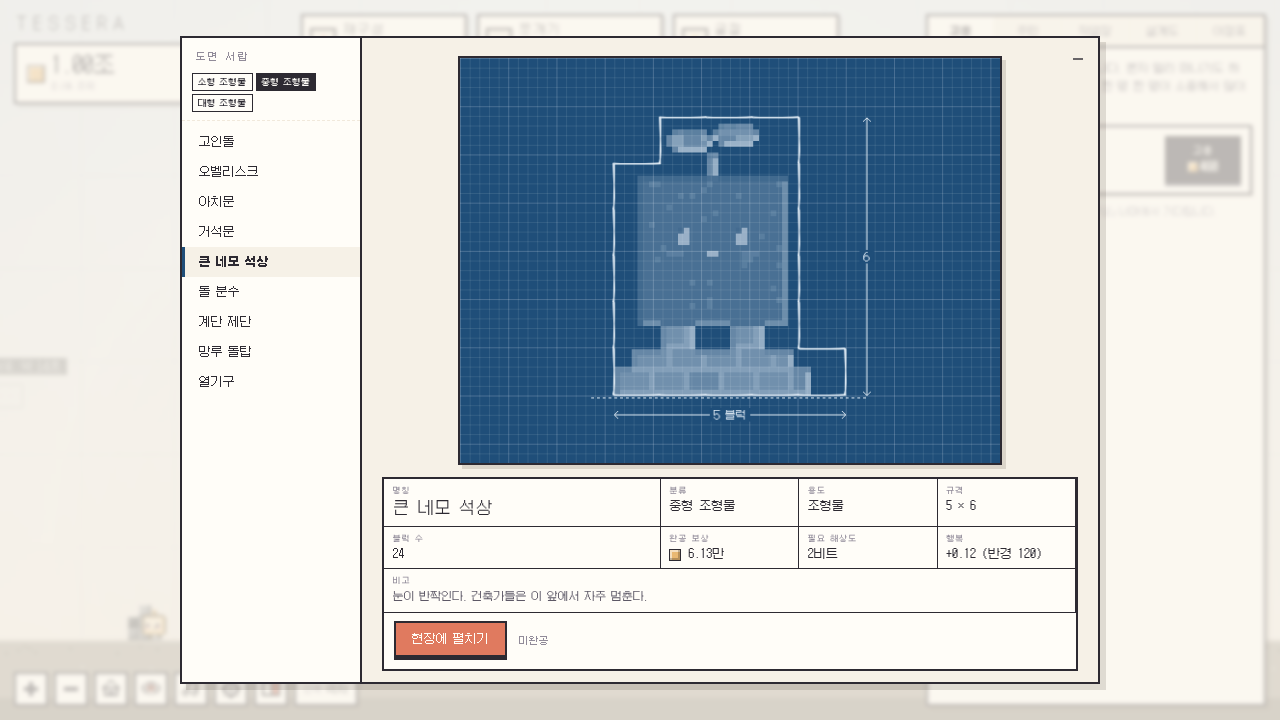
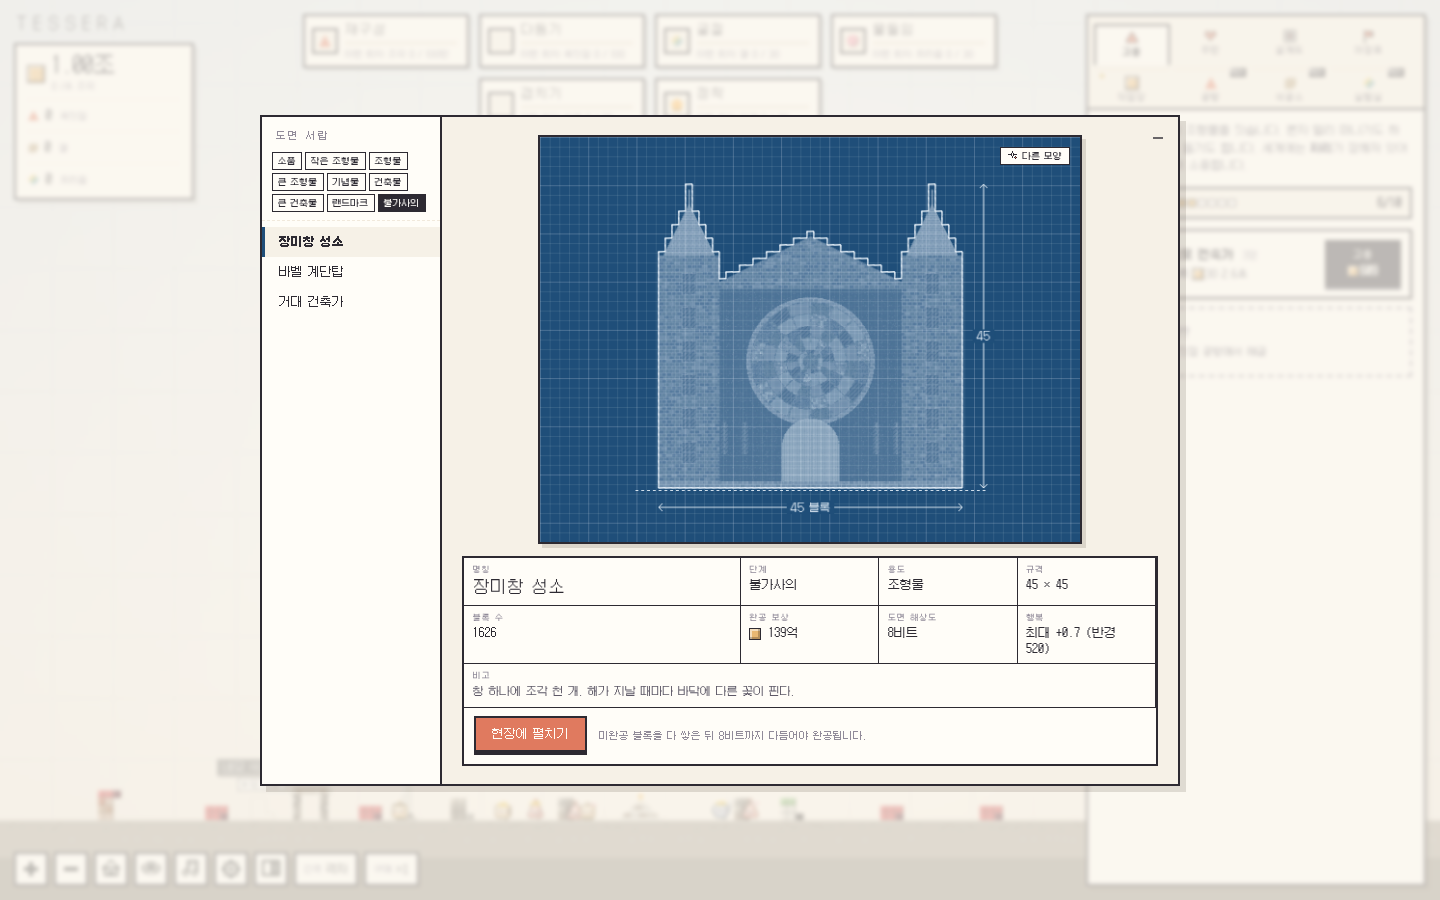
v4 P8: master spec v4, README, screenshots, blueprint sheet scaling for wonders, cell click priority, guide card under modals
Claude-Session: https://claude.ai/code/session_01N4KP5tCXqoHNgnAGJrMBmJ

diff --git a/js/main.js b/js/main.js
@@ -148,7 +148,10 @@
     if (e.button === 2 || e.button === 1) { rdown = { sx: e.clientX, sy: e.clientY, lx: e.clientX, ly: e.clientY, moved: false, wx, button: e.button }; return; }
     if (T.st.placing) { down = { placing: true }; return; }
     if (T.vil.zoneTool && wy < 40) { T.vil.zoneDrag = [wx, wx]; down = { zone: true }; return; }
-    down = { sx: e.clientX, sy: e.clientY, moved: false, ent: T.ent.pick(wx, wy), held: false };
+    // an empty cell under the cursor wins over a builder standing in front of it (the highlight shows it)
+    const ast = T.st.at(wx, wy, T.view(), true);
+    const onCell = ast && !ast.clearing && M.cellAt(ast, wx, wy) >= 0;
+    down = { sx: e.clientX, sy: e.clientY, moved: false, ent: onCell ? null : T.ent.pick(wx, wy), held: false };
   });
   cv.addEventListener('pointermove', (e) => {
     if (ptrs.has(e.pointerId)) ptrs.set(e.pointerId, [e.clientX, e.clientY]);
@@ -165,7 +168,8 @@
     }
     if (down && down.zone) { T.vil.zoneDrag[1] = wx; return; }
     if (!down || down.placing) {
-      const h = T.ent.pick(wx, wy);
+      const hst = T.st.at(wx, wy, T.view(), true);
+      const h = hst && !hst.clearing && M.cellAt(hst, wx, wy) >= 0 ? null : T.ent.pick(wx, wy);
       T.ent.hover = h;
       const st = !h && T.st.hit(wx, wy, T.view());
       cv.style.cursor = T.st.placing ? 'copy' : T.vil.zoneTool ? 'ew-resize' : h ? 'grab' : st ? (T.st.done(st) ? 'help' : 'cell') : 'crosshair';

diff --git a/js/structures.js b/js/structures.js
@@ -613,7 +613,9 @@
     for (let y = 0; y < H; y += 10) { ctx.fillStyle = y % 50 === 0 ? (color ? 'rgba(232,241,250,0.22)' : 'rgba(0,0,0,0.11)') : color ? 'rgba(232,241,250,0.1)' : 'rgba(0,0,0,0.05)'; ctx.fillRect(0, y, W, 1); }
     const margin = 52;
     const rows = sh.h + sh.sink;
-    const cs = Math.max(2, Math.floor(Math.min((W - margin * 2) / sh.w, (H - margin * 2) / rows) / 8) * 8) || Math.min((W - margin * 2) / sh.w, (H - margin * 2) / rows);
+    // whole multiples of 8 when there is room (crisp sub-pixels), otherwise as large as fits (big wonders)
+    const fit = Math.min((W - margin * 2) / sh.w, (H - margin * 2) / rows);
+    const cs = fit >= 8 ? Math.floor(fit / 8) * 8 : Math.max(1, Math.floor(fit));
     const ox = Math.round((W - cs * sh.w) / 2), groundY = Math.round((H - cs * rows) / 2) + cs * sh.h - 4;
     if (locked) ctx.globalAlpha = 0.35;
     // the actual pixel art, in ink colour, at the best resolution available

diff --git a/css/style.css b/css/style.css
@@ -886,3 +886,6 @@ body:not(.color) .acc-split { background: #8d8d8a; } body:not(.color) .acc-paint
 
 .seal.bounce { animation: sealBounce .5s steps(5); }
 @keyframes sealBounce { 30% { transform: translateY(-5px); } 60% { transform: translateY(1px); } }
+/* guide cards stay under modals (the modal backdrop covers them) */
+.tut { z-index: 45; }
+#ghl { z-index: 44; }

diff --git a/README.md b/README.md
@@ -23,32 +23,44 @@
 <p align="center"><img src="docs/og.png" alt="작은 건축가들이 지은 마을" width="860"></p>
 
 흰 하늘과 회색 땅뿐인 고요한 2D 격자 세계입니다. 화폐 **조각**으로 작고 귀여운 네모 **건축가**를 고용하면, 건축가들은 블록을 하나씩 던져 올려 조형물을 짓습니다. 혼자 멀리 떠나 짓기도 하고, 친구와 함께 짓기도 합니다.
-처음 지은 건축물은 투박한 블록 덩어리입니다. **쪼개기**로 블록을 1비트에서 8비트까지 잘게 나누면 건축물의 진짜 모습이 드러나고, **굴절**로 세상에 색이 생기면 **방울**이 쪼개진 칸을 하나하나 칠합니다. **겹치기**로 세상 뒤에 세상이 겹치고, **정착**하면 집을 짓고 잠을 자고 아기가 태어나는 마을이 시작됩니다.
+처음 지은 건축물은 투박한 블록 덩어리입니다. **다듬기**로 블록을 1비트에서 8비트까지 곱게 다듬으면 건축물의 진짜 모습이 드러나고, **굴절**로 세상에 색이 생기면 **방울**이 다듬어진 칸을 하나하나 칠합니다. **겹치기**로 세상 뒤에 세상이 겹치고, **정착**하면 집을 짓고 잠을 자고 아기가 태어나는 마을이 시작됩니다.
 
 ## 스크린샷
 
-| 처음, 고요한 회색 세계 | 설계도 드래프팅 테이블 |
+| 처음, 고요한 회색 세계 | 불가사의 「장미창 성소」 도면 |
 |---|---|
 | ![초반](docs/screenshots/early.png) | ![설계도](docs/screenshots/blueprint.png) |
-| **쪼개기 전(왼쪽)과 8비트로 쪼갠 뒤(오른쪽)** | **레이어 세 겹의 중세 성읍** |
-| ![쪼개기](docs/screenshots/split.png) | ![마을](docs/screenshots/village.png) |
+| **다듬기 전(왼쪽)과 8비트로 다듬은 뒤(오른쪽)** | **세 겹의 중세 성읍** |
+| ![다듬기](docs/screenshots/split.png) | ![마을](docs/screenshots/village.png) |
 | **오로라가 뜬 밤** | **부탁 메뉴** |
 | ![밤](docs/screenshots/night.png) | ![부탁 메뉴](docs/screenshots/radial.png) |
+| **달이 해를 가린 일식** | **이정표 보상 카드** |
+| ![일식](docs/screenshots/eclipse.png) | ![이정표](docs/screenshots/milestone.png) |
 
 ## 특징
 
-- **귀여운 건축가들**: 쓰다듬으면 하트를 뿜고, 들어 올리면 버둥거리고, 짓고 있는 곳 근처에 내려놓으면 거듭니다. 한 명 한 명이 소중해서 첫 재구성 전까지는 대여섯 명 정도만 함께합니다.
-- **실제 비율의 픽셀 건축물 50여 종**: 재질별 색조 이동 램프, 질감, 자동 외곽선과 명암으로 그린 절차적 픽셀 아트. 풀은 작고, 집은 건축가 몇 배, 성은 화면을 가득 채웁니다. 하늘에 띄우는 건축물도 있습니다.
-- **쪼개기와 해상도**: 끌 주민이 완공된 블록을 결대로 쪼갭니다. 해상도는 1비트(1×1)부터 8비트(8×8)까지. 손이 빨라지면 한 칸을 한 번에 쪼갭니다.
-- **함께 짓기**: 짓고 있는 건축물을 클릭하면 플레이어도 블록을 보탤 수 있습니다.
-- **이정표 22개**: 어떤 리셋에도 지워지지 않는 별도 레이어. 업그레이드, 리셋 레이어, 편의 기능(연출 생략, 일괄 레벨업, 예상 소요시간)을 차례로 엽니다.
-- **여섯 겹의 리셋 레이어**: 재구성(꼭짓점), 쪼개기(결), 굴절(프리즘, 색의 탄생), 물들임(안료, 방울), 겹치기(겹, 깊이 레이어와 워프 주민), 정착(등불, 마을).
-- **업그레이드 한계**: 처음에는 최대 레벨이 낮고, 상위 레이어의 「한계」 업그레이드로 늘어납니다.
-- **마을의 삶**: 집과 잠, 모든 주민의 수명, 이별과 작은 무덤, 행복 범위, 방문, 구역, 아기와 일꾼. 밖에서 자면 수명이 빨리 줄고, 밤에 부탁을 하면 자던 주민이 화들짝 깨서 달려옵니다.
-- **하늘**: 날짜와 시간, 해와 위상이 바뀌는 달, 반짝이는 별과 별똥별. 아주 가끔 **오로라**나 **일식**이 찾아오면 피버 타임.
-- **연대기**: 움집 마을, 돌담 마을, 장원, 중세 성읍. 여러 조건을 동시에 채워야 넘어갑니다.
-- **물자와 자동화**: 고용, 레벨업, 업그레이드 자동화와 업그레이드 유지, 꼭짓점과 결과 프리즘 자동 채굴. 리셋 자체는 자동으로 일어나지 않습니다.
-- **밸런스**: 클릭 가치는 건축가 수입 대비 소프트캡, 비용은 단계마다 성장률이 커지는 구조.
+- **귀여운 건축가들**: 쓰다듬으면 하트를 뿜고, 들어 올리면 버둥거리고, 짓고 있는 곳 근처에 내려놓으면 거듭니다. 세계에는 **자리**가 정해져 있어서 한 명 한 명이 소중합니다.
+- **9단계 픽셀 건축물 70종**: 재질별 색조 이동 램프, 질감, 자동 외곽선과 명암으로 그린 절차적 픽셀 아트.
+  - 단계는 크기로 정해서 소품부터 **불가사의**(장미창 성소, 바벨 계단탑, 거대 건축가)까지 단계마다 확실히 커집니다.
+- **다듬기와 도면 해상도**: 톡톡 주민이 블록을 결대로 다듬습니다. 1비트(1×1)부터 8비트(8×8)까지 있고, 도면 해상도까지 다듬어야 완공됩니다.
+  - 다듬고 칠할수록 **완성도**가 올라 주민이 더 행복해집니다.
+- **함께 짓기**: 짓고 있는 건축물의 빈칸을 클릭하면 그 칸을 직접 채웁니다.
+- **이정표 22개**: 어떤 리셋에도 지워지지 않는 별도 레이어입니다. 세우면 보상 카드가 한 장씩 펼쳐집니다.
+- **여섯 겹의 리셋 레이어**: 리셋마다 고유한 연출이 있습니다.
+  - 재구성(꼭짓점)
+  - 다듬기(결)
+  - 굴절(프리즘, 색의 탄생)
+  - 물들임(안료, 방울)
+  - 겹치기(안개, 겹과 폴짝 주민)
+  - 정착(등불, 마을)
+- **겹 이동**: 세상 뒤의 겹을 Q / E로 오가며 짓습니다.
+- **마을의 삶**: 집과 잠, 수명, 이별과 작은 무덤, 행복 범위, 방문, 구역(바꾸면 알아서 다시 지음), 아기와 일꾼, 「모여」 다음 「흩어져」의 밤샘.
+- **하늘**: 날짜와 시간, 위상이 바뀌는 달, 별과 별똥별. 가끔 **오로라**가 뜨거나 달이 해를 가리는 **일식**이 찾아옵니다.
+- **연대기**: 움집 마을, 돌담 마을, 장원, 중세 성읍. 넘어갈 때 연대기 책장이 넘어갑니다.
+- **소리**: Kenney와 uisfx의 CC0 효과음 54개를 게임 톤에 맞게 골라 다듬었습니다. 블록은 높이에 따라 5음계로 노래합니다.
+- **밸런스**: 같은 상점의 배율은 더하기형, 보유 보너스는 로그, 리셋 획득은 점점 가팔라지는 곡선입니다.
+  - 상한 계산기(`tools/balance.js`)가 실제 공식으로 폭주를 검사하고, CI에서 실패를 막습니다.
+- **편의**: 안내서, 고유 픽셀 툴팁과 스크롤바, 구매 수량(×1~최대), 일괄 레벨업 목표 칩, 개발자 모드(코드 `DEV`).
 
 ## 조작
 
@@ -56,7 +68,7 @@
 |---|---|
 | 좌클릭 | 블록 설치 (쿨타임, 쿨타임 중 클릭은 예약됨) |
 | 좌클릭 끌기 | 블록 칠하기 |
-| 짓고 있는 건축물 클릭 | 함께 짓기 |
+| 짓고 있는 건축물의 빈칸 클릭 | 그 칸 채우기 |
 | 완공된 건축물 클릭 | 상세 정보와 행복 범위 |
 | 간격 버튼 위에서 휠, `[` `]` | 블록 간격 (자유, 격자, 2칸 이상) |
 | 우클릭 끌기 | 맵 이동 |
@@ -64,6 +76,8 @@
 | 휠, 핀치, `+` `−` | 확대 / 축소 |
 | 주민 클릭 / 끌기 | 쓰다듬기와 정보 카드 / 들어 올리기 |
 | 구매 버튼 꾹 누르기 | 점점 빨라지는 연속 구매 |
+| 구매 버튼(dock) 클릭, 휠 | 구매 수량 ×1, ×5, ×10, ×25, 최대 |
+| `Q` `E`, `PageUp` `PageDown` | 겹 이동 |
 | `H` | 관측 모드 |
 | `Esc` | 취소, 창 닫기 |
 
@@ -85,9 +99,10 @@ python3 -m http.server 8000
 | URL | 내용 |
 |---|---|
 | `?demo=wild` | 정착 전, 블록 그대로의 조형물 |
-| `?demo=wild&res=3&color&paint` | 8비트로 쪼개고 칠한 조형물 |
+| `?demo=wild&res=3&color&paint&ms=16` | 8비트로 다듬고 칠한 조형물, 불가사의 도면 |
 | `?demo=village&era=3&paint` | 방울이 칠한 장원 시대 마을 |
-| `?demo=village&era=4&paint&layers=3` | 레이어 세 겹의 중세 성읍 |
+| `?demo=village&era=4&paint&layers=3` | 세 겹의 중세 성읍 (Q / E로 겹 이동) |
+| 아무 URL에 `&dev` | 개발자 탭 (화폐, 진행, 시간 배속, 연출 재생, 사운드 보드) |
 | `?demo=village&era=4&clock=160` | 밤의 중세 성읍 |
 
 예: <https://rednebula100.github.io/TESSERA/?demo=village&era=4&paint&layers=3>
@@ -98,19 +113,18 @@ python3 -m http.server 8000
 |---|---|
 | 제목 | **TESSERA** (부제: 작은 건축가들) |
 | 기본 화폐 | 조각 |
-| 리셋 레이어 | 1 재구성(꼭짓점), 2 쪼개기(결), 3 굴절(프리즘), 4 물들임(안료), 5 겹치기(겹), 6 정착(등불) |
+| 리셋 레이어 | 1 재구성(꼭짓점), 2 다듬기(결), 3 굴절(프리즘), 4 물들임(안료), 5 겹치기(안개), 6 정착(등불) |
 | 별도 레이어 | 이정표 (어떤 리셋에도 남음), 연대기 (정착 후) |
-| 주민 | 건축가, 일꾼, 아기, 끌, 방울, 망치, 워프 |
+| 주민 | 건축가, 일꾼, 아기, 톡톡(다듬기), 방울(채색), 쿵쿵(철거), 폴짝(겹 건너기) |
 | 해상도 | 1비트, 2비트, 4비트, 8비트 (물들임 이후 최대) |
 | 폰트 | Galmuri |
 
-전체 설계는 [`SPEC.md`](SPEC.md)에 있습니다.
+전체 설계는 [`SPEC.md`](SPEC.md)에, v4 계획과 근원 분석은 [`docs/PLAN-v4.md`](docs/PLAN-v4.md)에 있습니다.
 
 ## 로드맵 / 남은 결정
 
-- [ ] **밸런스 플레이테스트**: 각 리셋 레이어 도달 시간 측정 후 `js/data.js` 수치 조정
+- [ ] **밸런스 플레이테스트**: 상한 계산기의 이상 플레이 모델은 통과했지만, 실제 플레이로 후반 체감을 확인
 - [ ] 연대기 확장: 성곽 도시, 근대, 미래 시대
-- [ ] 레이어별 구역 칠하기와 레이어 시점 전환
 - [ ] 칠각, 팔각 등 다각형 계열 건축가
 - [ ] 모바일 레이아웃 다듬기 (현재는 기본 대응만)
 - [ ] 영어 번역
@@ -120,25 +134,32 @@ python3 -m http.server 8000
 ```
 index.html          진입점
 css/style.css       UI (색 이전은 무채색, body.color 이후 파스텔)
+audio/              효과음 54개 (CC0) + CREDITS.md
 js/
-  util.js           숫자 포맷(만, 억, 조), RNG, 이징
-  data.js           건축가, 업그레이드, 이정표, 구역 데이터 ← 밸런스 조정은 여기
+  util.js           숫자 포맷(만, 억, 조), RNG, 이징, 리셋 곡선(taper)
+  data.js           건축가, 업그레이드, 이정표, 구역, 안내서 데이터 ← 밸런스 조정은 여기
   patterns.js       기하학 무늬 (비밀 코드)
   pixelart.js       재질 기반 픽셀 아트 엔진 (램프, 질감, 외곽선, 해상도별 색)
-  catalog.js        건축물 도감 (원시 조형물부터 중세 성까지, 하늘 건축물)
-  structures.js     건축물 배치, 진행, 완공, 쪼개기, 채색, 철거, 도면 시트
-  village.js        부지와 구역, 레이어, 낮과 밤, 하늘 이벤트, 행복, 수명, 가족
+  catalog.js        건축물 도감과 9단계 등급 (원시 조형물부터 불가사의, 중세 성까지)
   icons.js          픽셀 아이콘
-  world.js          카메라, 깊이 레이어, 청크 캐시, 하늘(해, 달, 별), 바닥
+  uikit.js          고유 툴팁, 픽셀 스크롤바
+  world.js          카메라, 겹, 청크 캐시, 하늘(해, 달, 별, 일식), 바닥
   sprites.js        절차적 픽셀 스프라이트
-  entities.js       건축가, 일꾼, 아기, 끌, 방울, 망치, 워프
-  game.js           상태, 경제, 리셋, 저장
-  fx.js             파티클, 완공, 리셋, 색의 탄생, 정착, 시대 전환, 크레딧 연출
-  audio.js          블록 음계 + 효과음
-  ui.js             HUD, 패널, 모달
-  main.js           루프, 입력
+  audio.js          효과음 엔진 (버스, 덕킹, 음계)
+  game.js           상태, 경제, 자리, 리셋, 저장(v3 자동 이전)
+  structures.js     건축물 배치, 골조와 완공, 다듬기, 채색, 철거, 도면 시트
+  village.js        부지와 구역, 낮과 밤, 하늘 이벤트, 행복, 수명, 가족
+  entities.js       건축가, 일꾼, 아기, 톡톡, 방울, 쿵쿵, 폴짝
+  fx.js             파티클, UI 파티클, 완공, 포털, 색의 탄생, 첫 정착, 크레딧
+  fxseq.js          리셋 6종, 시대 전환, 이정표 연출
+  ui.js             HUD, 탭, 패널, 모달, 카드, 안내서
+  dev.js            개발자 모드
+  main.js           루프, 입력, 겹 이동
+tools/
+  balance.js        밸런스 상한 계산기 (CI)
+  check.js          콘텐츠 검사: 단계와 크기, 이정표 보상, 금지어 (CI)
 vendor/             Galmuri 폰트, Rough.js, ZzFX (오프라인 동작)
-docs/               스크린샷, 파비콘, OG 이미지
+docs/               스크린샷, 파비콘, OG 이미지, PLAN-v4.md
 ```
 
 건축물은 종류와 시드, 위치, 진행도만 저장하고 도면은 다시 생성하므로 마을이 커져도 저장 용량이 작습니다.
@@ -150,6 +171,7 @@ docs/               스크린샷, 파비콘, OG 이미지
 - [Galmuri](https://github.com/quiple/galmuri) by Quiple: SIL Open Font License 1.1 ([`vendor/fonts/OFL-Galmuri.md`](vendor/fonts/OFL-Galmuri.md))
 - [Rough.js](https://github.com/rough-stuff/rough) by Preet Shihn: MIT ([`vendor/LICENSE-roughjs`](vendor/LICENSE-roughjs))
 - [ZzFX](https://github.com/KilledByAPixel/ZzFX) by Frank Force: MIT ([`vendor/LICENSE-zzfx`](vendor/LICENSE-zzfx))
+- 효과음: [Kenney](https://kenney.nl), [UI SFX](https://uisfx.com): CC0 1.0 ([`audio/CREDITS.md`](audio/CREDITS.md))
 
 ---
 

diff --git a/SPEC.md b/SPEC.md
@@ -1,4 +1,109 @@
-# TESSERA 마스터 스펙 v3 (쪼개기와 레이어)
+# TESSERA 마스터 스펙 v4 (다듬기, 소리, 연출)
+
+> v4 항목이 v3, v2, v1 본문보다 우선합니다. 계획과 근원 분석은 `docs/PLAN-v4.md`에 있습니다.
+
+## v4.1 용어
+| 이전 | v4 |
+|---|---|
+| 쪼개기(2차 리셋) | **다듬기** |
+| 끌 주민 | **톡톡** |
+| 망치 주민 | **쿵쿵** |
+| 워프 주민 | **폴짝** |
+| 레이어(깊이) | **겹** |
+| 겹(겹치기 화폐) | **안개** |
+| 블럭 | **블록** |
+| 소프트캡 | (폐지) |
+
+- 이정표 보상은 「○○ 해금」처럼 짧게, 종류별 칩(배율, 업그레이드, 기능, 해금, 자리, 설계도)으로 보여줍니다.
+
+## v4.2 건축
+- **도면 해상도**(res): 건축물마다 정해진 해상도입니다. 그보다 곱게는 다듬지 않습니다.
+  - 블록을 다 쌓으면 「골조 완성」, 도면 해상도까지 다듬으면 「완공」입니다. 보상과 도감 기록은 완공 때 들어옵니다.
+  - **섬세한 손길**(아틀리에)을 사면 도면보다 최대 3단계 더 다듬을 수 있습니다.
+- **완성도**: 100% + 다듬기(8비트 기준 최대 +100%) + 색(최대 +100%). 행복 효과는 완성도/300%에 비례합니다.
+- **설계도 일관성**: 썸네일, 도면, 고스트, 실제 건축물이 같은 변형(seed)과 같은 미리보기 해상도를 씁니다. 도면 서랍의 「다른 모양」으로 4가지 변형 중 고릅니다.
+- **함께 짓기**: 짓는 중인 건축물은 빈칸을 클릭해야 그 칸이 채워집니다. 마우스 아래 빈칸이 깜빡이고, 그 칸 앞에 건축가가 서 있어도 칸이 우선입니다.
+- **9단계 등급**: 등급은 크기(긴 변)에서 자동으로 정해서, 단계가 오르면 반드시 커집니다.
+
+  | 단계 | 이름 | 긴 변(블록) |
+  |---|---|---|
+  | 0 | 소품 | ≤3 |
+  | 1 | 작은 조형물 | ≤5 |
+  | 2 | 조형물 | ≤7 |
+  | 3 | 큰 조형물 | ≤10 |
+  | 4 | 기념물 | ≤14 |
+  | 5 | 건축물 | ≤19 |
+  | 6 | 큰 건축물 | ≤27 |
+  | 7 | 랜드마크 | ≤39 |
+  | 8 | 불가사의 | 40+ |
+
+  - 새 건축물: 얼굴 바위 셋, 돌기둥 신전, 쌍탑 성문.
+  - 불가사의: 장미창 성소, 바벨 계단탑, 거대 건축가.
+  - 열린 설계도가 없는 단계는 숨기고, 다음 단계 하나만 잠긴 칩으로 보입니다.
+
+## v4.3 밸런스
+- 근원: 레벨당 ×k 지수 배율과 지수 비용, 거듭제곱 보유 보너스, 교차 증폭이 겹쳐 생산이 다항식을 벗어났습니다.
+- **같은 상점의 배율은 더하기형**(1 + a·L), 비용은 지수 그대로입니다. 레벨이 오를수록 효율이 줄어듭니다.
+- **보유 보너스는 로그**: (1 + log10(1+X))^p. p는 1.0~1.5입니다.
+- **리셋 획득은 점점 가팔라지는 곡선**: `taper(비율, e, k) = 10^(e·L/(1+L/k))`, L = log10(비율). 초반에는 거의 그대로이고 후반 폭발은 꺾입니다.
+- **클릭**: 소프트캡을 폐지하고 「건축가 생산 n초 분량」으로 바꿨습니다. 0.25초에서 손재주로 1초에 가까워집니다.
+- **자리**: 건축가 수는 이정표로 늘어나는 자리 수만큼입니다(3 → 10, 작은 방/다락 +4). 정착 후에는 집 정원만큼 늘어납니다.
+  - 대신 한 명이 강해졌습니다: 쿨타임 2.6초, 레벨 배율 1 + 0.5L.
+- 걷기 ×1.56, 사거리 ×1.70이 최대입니다. 한계 업그레이드로 늘어나지 않습니다.
+- **검증**: `tools/balance.js`가 실제 공식을 불러 구조 상한과 이상 플레이 모델을 계산합니다. CI에서 기준을 어기면 실패합니다.
+  - 첫 굴절 직후 다듬기 1회로 얻는 결 ≤ 굴절 조건의 4배.
+  - 첫 재구성 6~30분.
+  - 보유 1e15에서 조각 배율 < 1e26.
+  - 후반 다듬기 1회 결 ≤ 1e5.
+
+## v4.4 UI
+- 책갈피 탭: 윗줄은 사람과 장소, 아랫줄은 화폐별 상점(살 수 있으면 점이 깜빡임).
+- 채움 버튼: 비용까지 모은 만큼 버튼이 차오르고, 다 차면 반짝입니다.
+- 고유 픽셀 툴팁: 업그레이드는 현재 → 다음 효과와 구매까지 예상 시간을 보여줍니다.
+- JS 픽셀 스크롤바: 모든 브라우저에서 같은 모양입니다.
+- 구매 수량 위젯(×1, ×5, ×10, ×25, 최대). 이정표 8부터 열립니다.
+- 일괄 레벨업 목표 칩: +1, +5, +10, 리본, 안전모, 왕관, 끝까지.
+- 이정표 표는 달성한 것만 펼칠 수 있습니다.
+- 건축 라벨은 두 줄입니다(진행 / 시계와 남은 시간).
+- 안내서: 새 기능이 열리면 짧은 장이 열립니다. 강조는 픽셀 괄호로 하고, 설정에서 다시 볼 수 있습니다.
+- 개발자 모드: 코드 `DEV` 또는 URL `?dev`. 화폐, 진행, 세계, 시간 배속, 연출 재생, 배율 내역, 사운드 보드.
+- 설정: 음량(전체, 효과음, 화면 소리), 클릭으로 블록 놓기 끄기.
+
+## v4.5 연출
+- 리셋마다 고유 장면이 있습니다. 모두 화면 스냅샷에서 시작합니다.
+  - 재구성: 타일이 나선을 그리며 꼭짓점으로 응축.
+  - 다듬기: 끌질 세 번에 1→8×8로 갈라짐.
+  - 굴절: 프리즘 무지개.
+  - 물들임: 디더링된 물감 번짐.
+  - 겹치기: 장들이 뒤로 물러났다가 쾅.
+  - 정착: 등불이 하나씩 켜짐.
+  - 공통: 획득량 카운트업, 화폐가 HUD로 날아감.
+- 시대 전환: 세피아 액자 → 낮밤이 세 번 흐름 → 연대기 책장 넘김(대표 집이 1→8비트로) → 새 땅이 퍼짐.
+- 이정표: 돌기둥이 솟고, 보상 카드가 한 장씩 뒤집힙니다. 카드는 해당 탭으로 날아갑니다.
+- 일식: 달이 해를 가리며(부분식 → 개기식 → 부분식) 하늘이 어두워지고, 별과 코로나가 보입니다.
+- 폴짝: 픽셀 포털이 스캔라인으로 열리고, 둘이 빨려 들어갔다가 다른 겹에서 튀어나옵니다.
+- 마이크로 연출: 일괄 레벨업 칸 반짝임, 구매 불꽃, 고용 연기 고리, 빈칸 맞물림 고리, 리셋 준비 바운스.
+- 정착 후 땅은 갈색 흙입니다. 방울 자국과 주민이 자주 다니는 길이 보입니다.
+- 블록 설치 후 원형으로 어두워지던 효과는 삭제했습니다.
+
+## v4.6 소리
+- `audio/`: Kenney와 uisfx의 CC0 효과음 54개(약 330KB). 출처와 가공 과정은 `audio/CREDITS.md`에 있습니다.
+- 엔진 구조:
+  - 버스: ui / sfx(세계) → 덕킹 → 마스터 → 컴프레서.
+  - 효과음마다 음량, 음높이 흔들림, 동시 재생 수, 최소 간격을 정합니다.
+  - 세계 소리는 화면 위치로 팬하고, 확대 정도로 음량이 줄어듭니다.
+- 블록 소리는 높이에 따라 5음계로 음높이가 바뀝니다(음악 상자 유지).
+- 파일을 불러올 수 없으면 합성음으로 대체합니다.
+
+## v4.7 마을
+- 겹 이동: Q/E 또는 PageUp/PageDown, dock 위젯을 씁니다. 카메라가 돌리 이동하고, 앞쪽 겹은 반투명하게 지나갑니다. 클릭, 블록, 설계도는 보고 있는 겹에서 일어납니다.
+- 밤샘: 「모여」 다음 「흩어져」 하면 그 밤에는 집에 가지 않고 일합니다(수명 ×1.3).
+- 구역 바꾸기: 칠한 구역에 맞지 않는 건축가 작품은 쿵쿵이 치우고, 맞는 건축물로 다시 지어집니다. 설계도 작품은 지킵니다.
+- 저장: `tessera-save-v4`. v3 저장은 자동으로 옮깁니다.
+
+---
+
+# TESSERA 마스터 스펙 v3 (다듬기와 겹, 구 쪼개기와 레이어)
 
 > v3 항목이 v2, v1 본문보다 우선합니다.
 
